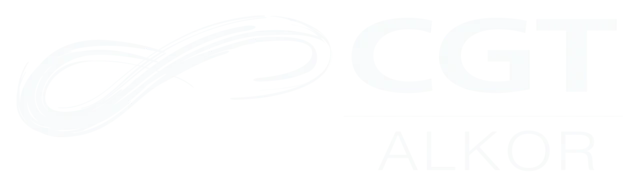
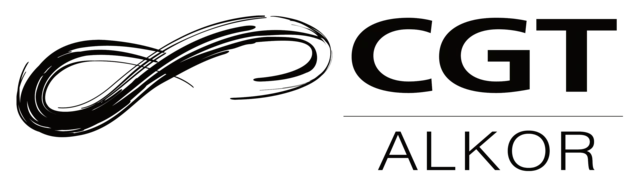
Refonte de la section "Nos marques" : cartes claires au lieu du filtre grayscale
Le filtre grayscale+brightness rendait les logos à texte noir
(Maytronics, Renolit...) invisibles sur fond sombre. Remplacé par
des cartes blanches/crème derrière chaque logo, qui garantit la
lisibilité quelle que soit la couleur d'origine du logo.
Logo CGT Alkor inversé (il était blanc, invisible sur fond clair).

Changed region(s): [[0.0, 0.0798, 0.9688, 0.7447], [0.5938, 0.6915, 0.9375, 0.9309], [0.5312, 0.6117, 0.9688, 0.6383]]

diff --git a/styles.css b/styles.css
@@ -1669,7 +1669,7 @@ p.lead {
   flex-wrap: wrap;
   align-items: center;
   justify-content: center;
-  gap: 3rem 4rem;
+  gap: 1.5rem;
   margin-top: 3rem;
 }
 
@@ -1677,35 +1677,35 @@ p.lead {
   display: flex;
   align-items: center;
   justify-content: center;
-  height: 42px;
+  height: 70px;
+  width: 170px;
+  background: #f7f5f2;
+  border-radius: 14px;
+  padding: 0.75rem 1.25rem;
+  transition: transform 0.3s ease, box-shadow 0.3s ease;
+}
+
+.partner-logo:hover {
+  transform: translateY(-3px);
+  box-shadow: 0 12px 24px rgba(0,0,0,0.25);
 }
 
 .partner-logo img {
   max-height: 100%;
-  max-width: 150px;
+  max-width: 100%;
   width: auto;
   height: auto;
   object-fit: contain;
-  filter: grayscale(1) brightness(1.8) contrast(0.9);
-  opacity: 0.55;
-  transition: filter 0.35s ease, opacity 0.35s ease, transform 0.35s ease;
-}
-
-.partner-logo img:hover {
-  filter: none;
-  opacity: 1;
-  transform: scale(1.05);
 }
 
 @media (max-width: 700px) {
   .partners-grid {
-    gap: 2.25rem 2.5rem;
+    gap: 1rem;
   }
   .partner-logo {
-    height: 34px;
-  }
-  .partner-logo img {
-    max-width: 110px;
+    height: 56px;
+    width: 130px;
+    padding: 0.6rem 1rem;
   }
 }
 

diff --git a/index.html b/index.html
@@ -53,8 +53,8 @@
   <link rel="preconnect" href="https://www.google.com">
   <link rel="preload" href="https://fonts.googleapis.com/css2?family=Inter:wght@400;500;600;700;800&display=swap" as="style" onload="this.rel='stylesheet'">
   <noscript><link href="https://fonts.googleapis.com/css2?family=Inter:wght@400;500;600;700;800&display=swap" rel="stylesheet"></noscript>
-  <link rel="preload" href="styles.css?v=4" as="style" onload="this.rel='stylesheet'">
-  <noscript><link rel="stylesheet" href="styles.css?v=4"></noscript>
+  <link rel="preload" href="styles.css?v=5" as="style" onload="this.rel='stylesheet'">
+  <noscript><link rel="stylesheet" href="styles.css?v=5"></noscript>
   <link rel="icon" type="image/x-icon" href="favicon.ico">
   <link rel="icon" type="image/png" sizes="32x32" href="favicon-32x32.png">
   <link rel="icon" type="image/png" sizes="16x16" href="favicon-16x16.png">
